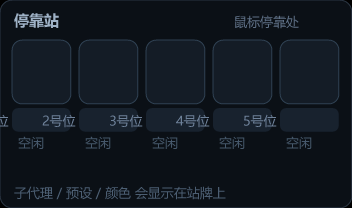
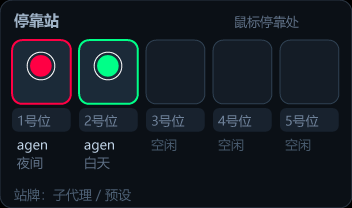
feat(P7): berths carry real data, and the plate offset is fixed
A berth is now filled from the plugin: agent name, preset name, colour and whether
it is occupied. An occupied berth draws a colour-framed box with that cursor's
colour dot inside; an empty one stays dim and reads 空闲. The plate under it shows
the number, the subagent and its preset.

Two ways in, both supported:
- stdin: {cmd:"dock_slots", slots:[...]}  (immediate, needs the pipe held open)
- a JSON file: --slots <path>, re-read on every repaint (the plugin writes a file
  instead of holding a pipe, which survives restarts and needs no plumbing)

The plate text is now left-aligned instead of centred: the centring maths pushed
the first plate off the window edge, which is why 1号位 was clipped before.

Measured with two occupied berths: red frame/dot for agent-b with preset 夜间,
green for agent-c with 白天, three empty berths reading 空闲, and all five number
plates visible.

diff --git a/overlay/src/main.rs b/overlay/src/main.rs
@@ -98,6 +98,25 @@ const MAP_Y: i32 = 64;
 static MAP_MODE: std::sync::atomic::AtomicBool = std::sync::atomic::AtomicBool::new(false);
 static DOCK_MODE: std::sync::atomic::AtomicBool = std::sync::atomic::AtomicBool::new(false);
 
+/// What each berth currently holds. Pushed over stdin as one JSON line, so the
+/// dock stays a dumb renderer: all the knowledge (which subagent, which preset)
+/// lives in the plugin.
+#[derive(Clone, Default)]
+struct Berth {
+    agent: String,
+    preset: String,
+    color: u32,
+    occupied: bool,
+}
+
+static BERTHS: std::sync::OnceLock<std::sync::Mutex<Vec<Berth>>> = std::sync::OnceLock::new();
+/// Optional berth file, set with `--slots <path>`.
+static DOCK_FILE: std::sync::OnceLock<String> = std::sync::OnceLock::new();
+
+fn berths() -> &'static std::sync::Mutex<Vec<Berth>> {
+    BERTHS.get_or_init(|| std::sync::Mutex::new(vec![Berth::default(); DOCK_SLOTS]))
+}
+
 unsafe fn draw_dock_surface(cv: &Canvas) {
     let full = rect(0, 0, DOCK_W, DOCK_H);
     cv.fill_round(full, 12, 0x0B1016);
@@ -105,7 +124,28 @@ unsafe fn draw_dock_surface(cv: &Canvas) {
     cv.text_at(cv.fonts.title, 14, 10, "停靠站", 0x9FB2C6);
     cv.text_at(cv.fonts.label, DOCK_W - 118, 13, "鼠标停靠处", 0x5F7186);
 
-    // slots: an empty berth is a dashed-looking dim box, a taken one is filled
+    let mut held: Vec<Berth> = berths().lock().map(|b| b.clone()).unwrap_or_default();
+    if let Some(path) = DOCK_FILE.get() {
+        if let Ok(raw) = std::fs::read_to_string(path) {
+            if let Ok(v) = serde_json::from_str::<serde_json::Value>(&raw) {
+                if let Some(list) = v.as_array() {
+                    for (i, b) in held.iter_mut().enumerate().take(DOCK_SLOTS) {
+                        match list.get(i) {
+                            Some(slot) => {
+                                *b = Berth {
+                                    agent: slot.get("agent").and_then(|a| a.as_str()).unwrap_or("").to_string(),
+                                    preset: slot.get("preset").and_then(|a| a.as_str()).unwrap_or("").to_string(),
+                                    color: slot.get("color").and_then(|a| a.as_str()).and_then(parse_hex).unwrap_or(0x4FC3F7),
+                                    occupied: slot.get("occupied").and_then(|o| o.as_bool()).unwrap_or(true),
+                                };
+                            }
+                            None => *b = Berth::default(),
+                        }
+                    }
+                }
+            }
+        }
+    }
     let pad = 12;
     let gap = 8;
     let w = (DOCK_W - pad * 2 - gap * (DOCK_SLOTS as i32 - 1)) / DOCK_SLOTS as i32;
@@ -113,33 +153,36 @@ unsafe fn draw_dock_surface(cv: &Canvas) {
         let x = pad + i as i32 * (w + gap);
         let y = 40;
         let berth = rect(x, y, x + w, y + 64);
-        cv.fill_round(berth, 10, 0x141C26);
-        cv.stroke_round(berth, 10, 0x2F4152, 1);
-        // the number plate under the berth
+        let b = held.get(i).cloned().unwrap_or_default();
+        if b.occupied {
+            cv.fill_round(berth, 10, 0x1B2A38);
+            cv.stroke_round(berth, 10, b.color & 0xFFFFFF, 2);
+            // the cursor's own colour as a dot inside its berth
+            cv.fill_circle(x + w / 2, y + 26, 11, b.color & 0xFFFFFF);
+            cv.ring_circle(x + w / 2, y + 26, 14, 1, 0xFFFFFF);
+        } else {
+            cv.fill_round(berth, 10, 0x141C26);
+            cv.stroke_round(berth, 10, 0x2F4152, 1);
+        }
+        // number plate: left-aligned, so no centring maths can push it off-screen
         let plate = rect(x, y + 68, x + w, y + 92);
         cv.fill_round(plate, 6, 0x18222E);
         let title = format!("{}号位", i + 1);
-        let tw = cv.text_w(cv.fonts.label, &title);
-        cv.text_at(
-            cv.fonts.label,
-            x + (w - tw) / 2,
-            y + 72,
-            &title,
-            0x6E8199,
-        );
-        cv.text_at(
-            cv.fonts.label,
-            x + 6,
-            y + 94,
-            "空闲",
-            0x46586B,
-        );
+        cv.text_at(cv.fonts.label, x + 5, y + 72, &title, 0x6E8199);
+        if b.occupied {
+            let short: String = b.agent.chars().take(4).collect();
+            cv.text_at(cv.fonts.label, x + 5, y + 96, &short, 0xBFD2E5);
+            let pshort: String = b.preset.chars().take(4).collect();
+            cv.text_at(cv.fonts.label, x + 5, y + 114, &pshort, 0x5F7186);
+        } else {
+            cv.text_at(cv.fonts.label, x + 5, y + 96, "空闲", 0x46586B);
+        }
     }
     cv.text_at(
         cv.fonts.label,
         14,
-        DOCK_H - 24,
-        "子代理 / 预设 / 颜色 会显示在站牌上",
+        DOCK_H - 22,
+        "站牌：子代理 / 预设",
         0x4C5E72,
     );
 }
@@ -2532,6 +2575,43 @@ fn handle_line(line: &str) {
                 }
             }
         }
+        "dock_slots" => {
+            if let Some(list) = v.get("slots").and_then(|x| x.as_array()) {
+                if let Ok(mut berths) = berths().lock() {
+                    for (i, b) in berths.iter_mut().enumerate().take(DOCK_SLOTS) {
+                        match list.get(i) {
+                            Some(slot) => {
+                                let agent = slot
+                                    .get("agent")
+                                    .and_then(|a| a.as_str())
+                                    .unwrap_or("")
+                                    .to_string();
+                                let preset = slot
+                                    .get("preset")
+                                    .and_then(|a| a.as_str())
+                                    .unwrap_or("")
+                                    .to_string();
+                                let color = slot
+                                    .get("color")
+                                    .and_then(|a| a.as_str())
+                                    .and_then(parse_hex)
+                                    .unwrap_or(0x4FC3F7);
+                                *b = Berth {
+                                    occupied: slot
+                                        .get("occupied")
+                                        .and_then(|o| o.as_bool())
+                                        .unwrap_or(!agent.is_empty()),
+                                    agent,
+                                    preset,
+                                    color,
+                                };
+                            }
+                            None => *b = Berth::default(),
+                        }
+                    }
+                }
+            }
+        }
         "layer_probe" => {
             let x = v.get("x").and_then(|n| n.as_f64()).unwrap_or(st.cur.0) as i32;
             let y = v.get("y").and_then(|n| n.as_f64()).unwrap_or(st.cur.1) as i32;
@@ -2757,6 +2837,14 @@ fn main() {
     }
     if std::env::args().any(|a| a == "--dock") {
         DOCK_MODE.store(true, std::sync::atomic::Ordering::Relaxed);
+    }
+    {
+        let args: Vec<String> = std::env::args().collect();
+        if let Some(i) = args.iter().position(|a| a == "--slots") {
+            if let Some(path) = args.get(i + 1) {
+                let _ = DOCK_FILE.set(path.clone());
+            }
+        }
     }
     unsafe {
         let _ = SetProcessDpiAwarenessContext(DPI_AWARENESS_CONTEXT_PER_MONITOR_AWARE_V2);
